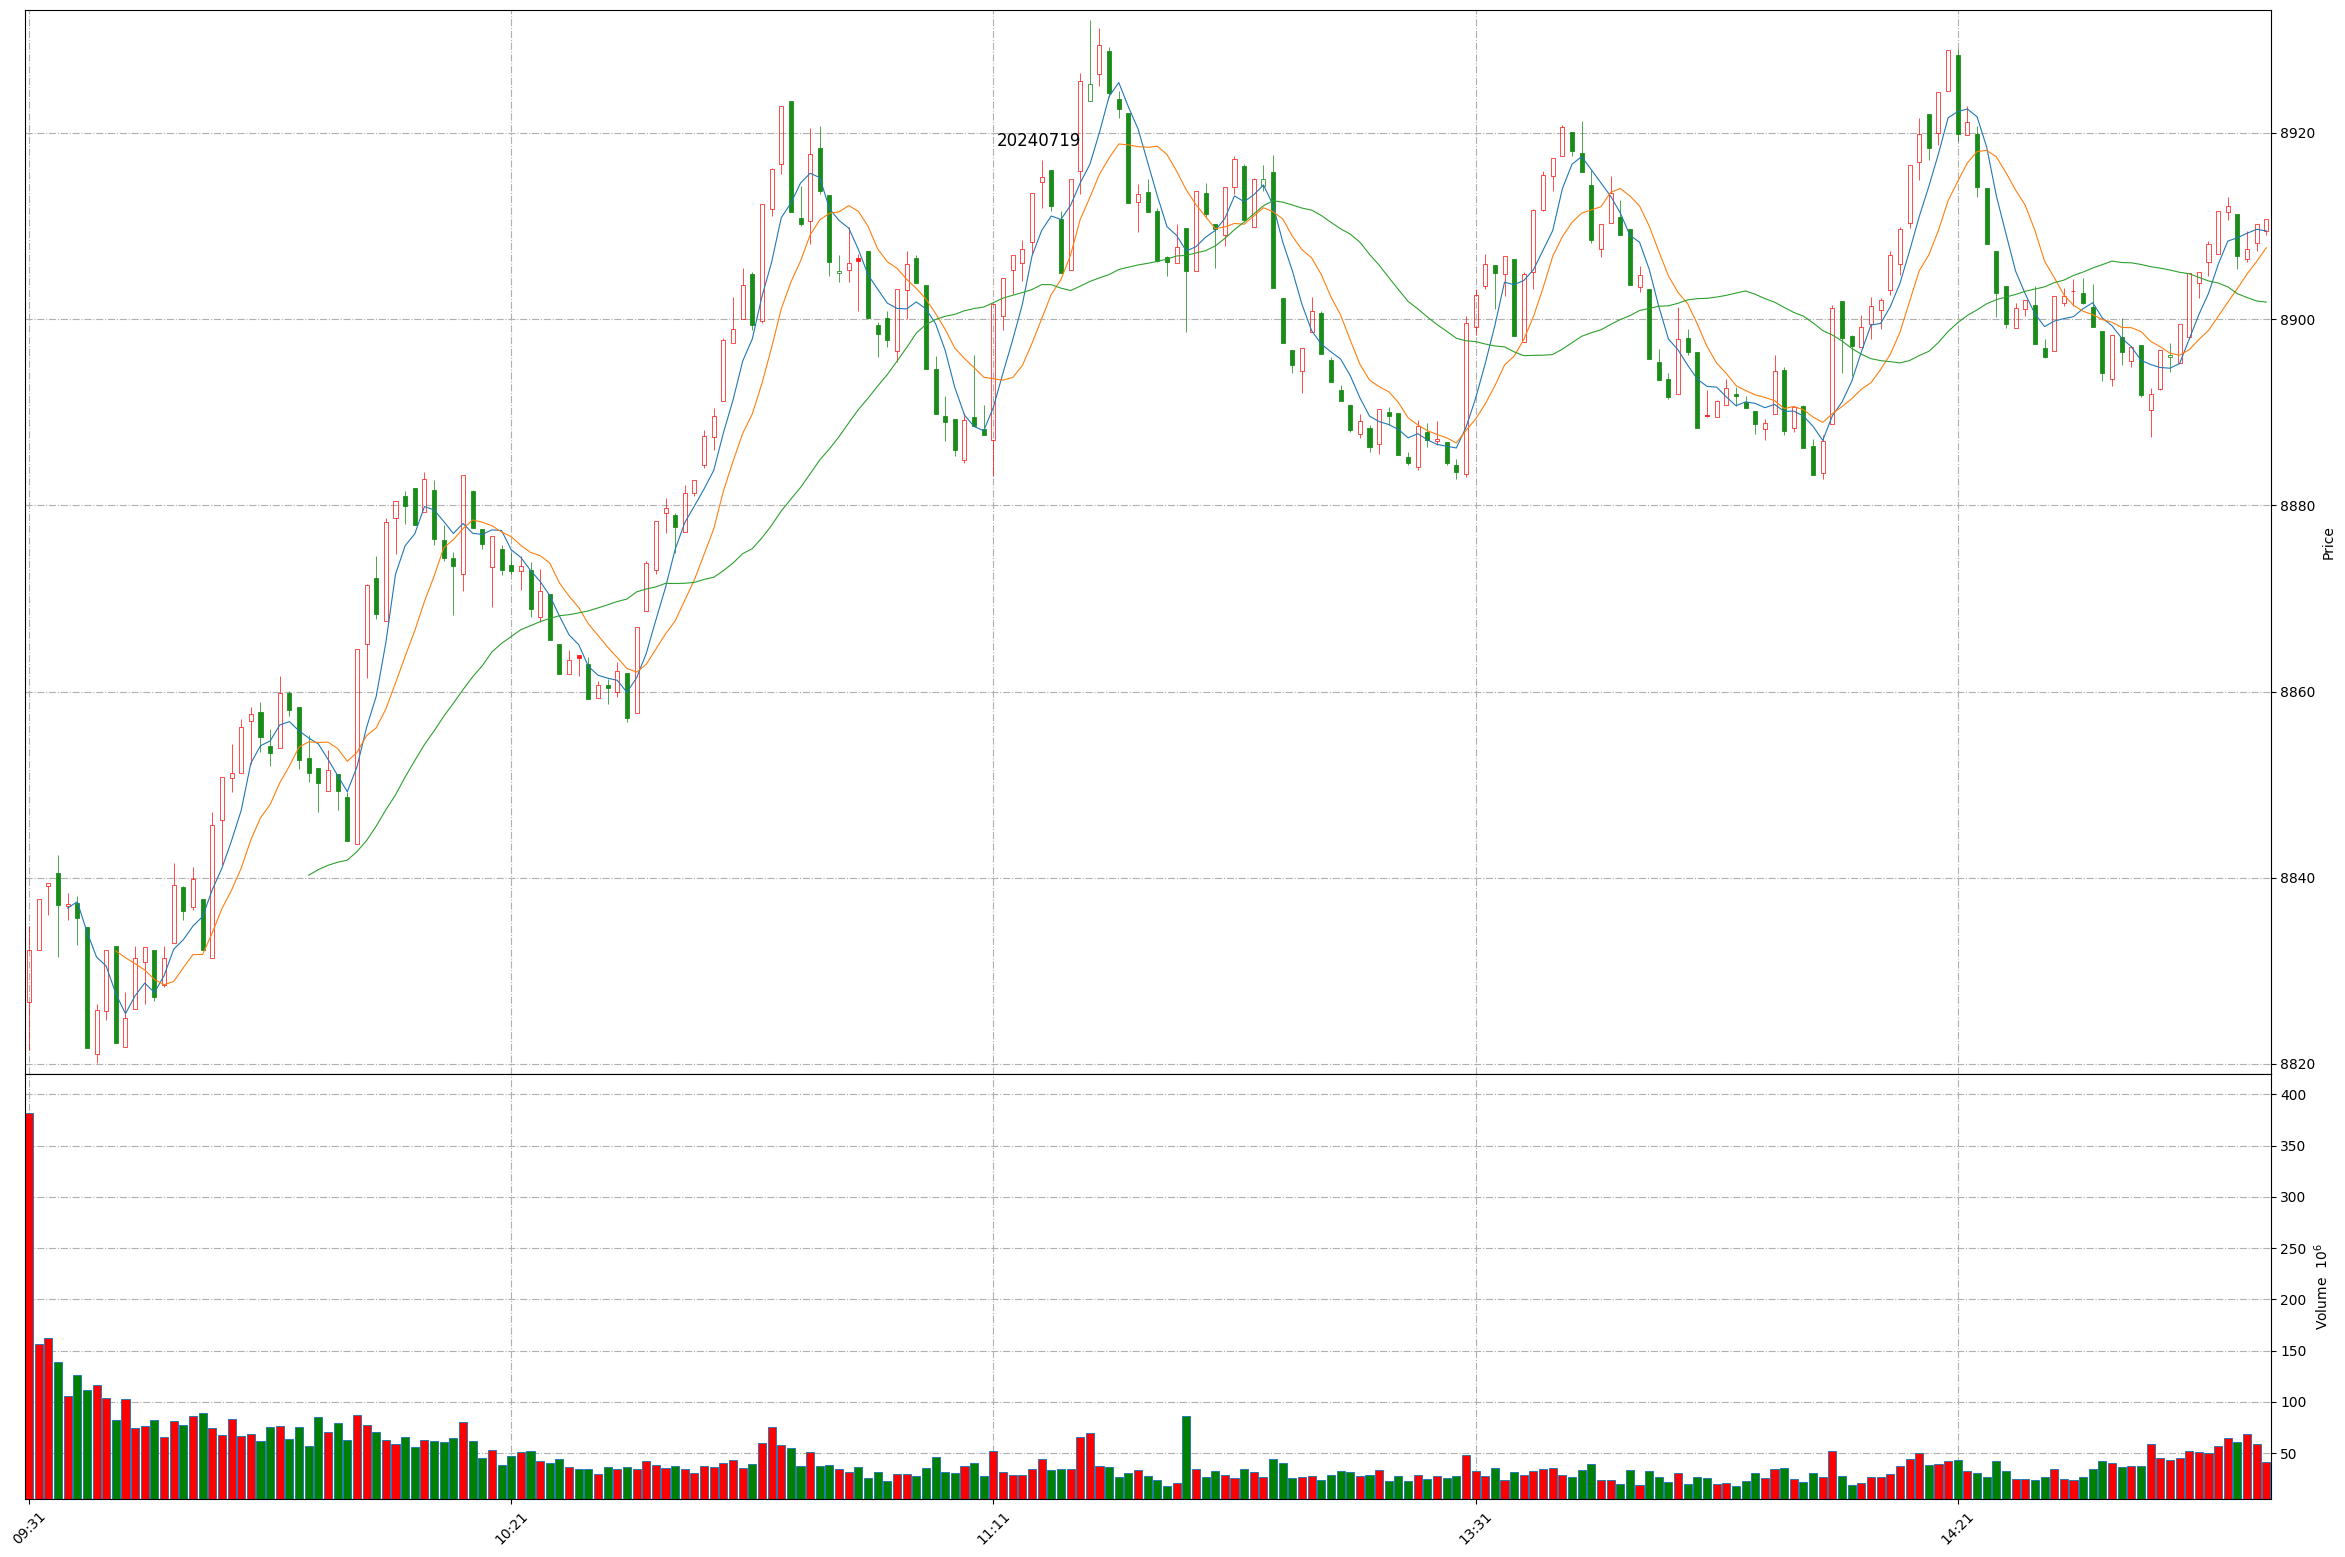
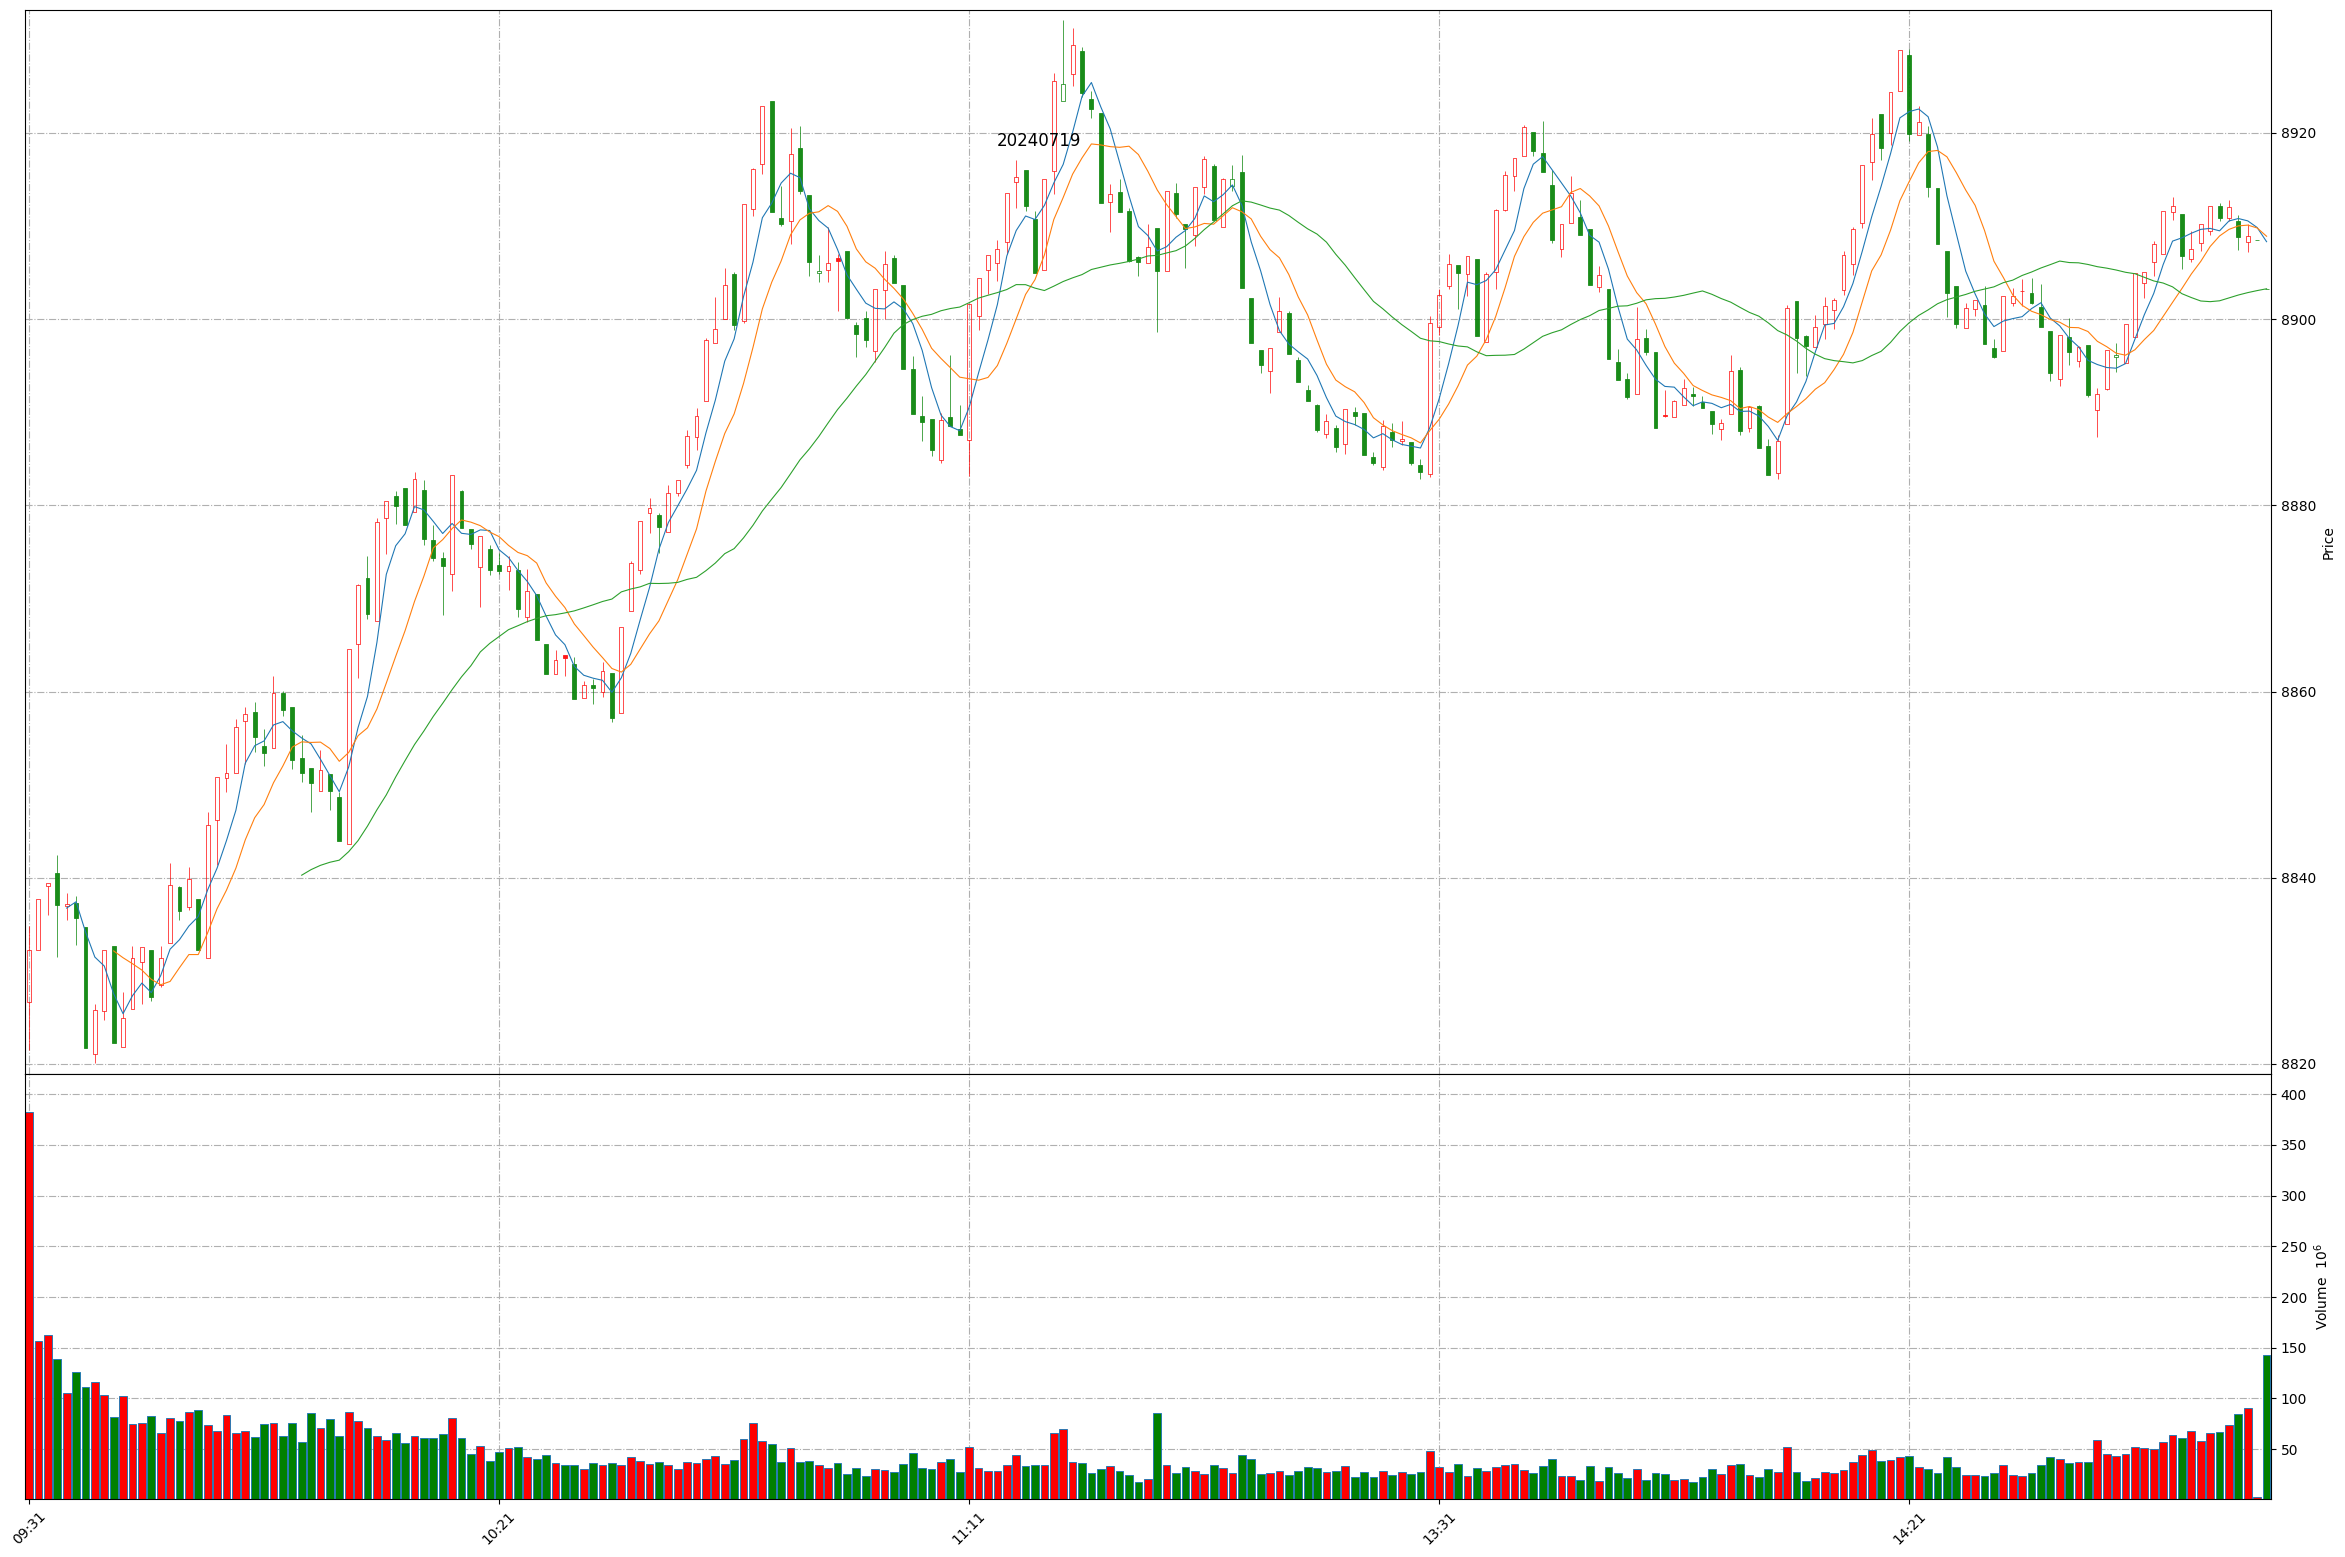
Github action update at 2024-07-19 15:12:10.

diff --git a/README.md b/README.md
@@ -1,11 +1,11 @@
 
 # Daily-A-share-market-quotes 每日 A 股指数（5min 更新）- 20240719
 
-### 上证指数 20240719 14:52
+### 上证指数 20240719 15:12
 ![](./fig/2024/7/20240719-sh000001.png)
 
-### 深证成指 20240719 14:52
+### 深证成指 20240719 15:12
 ![](./fig/2024/7/20240719-sz399001.png)
 
-### 北证50 20240719 14:52
+### 北证50 20240719 15:12
 ![](./fig/2024/7/20240719-bj899050.png)
